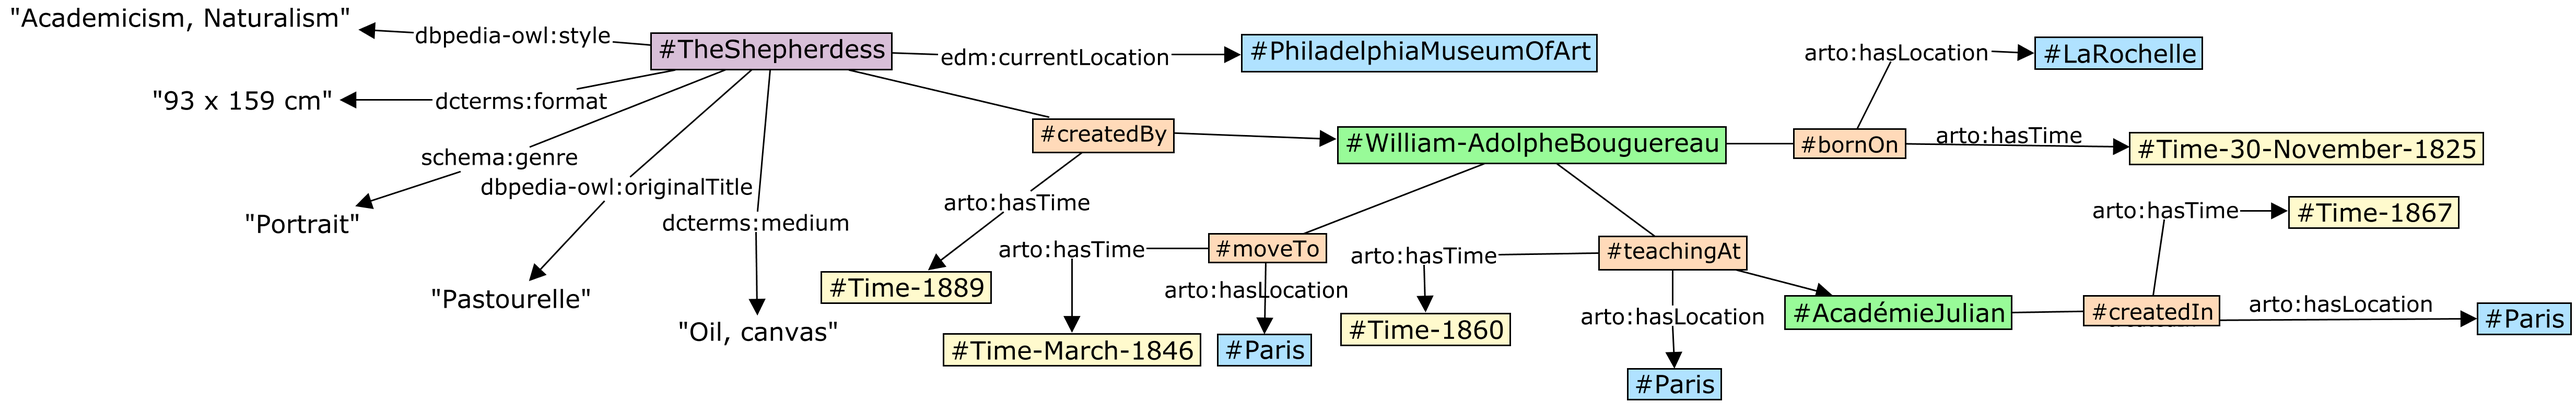
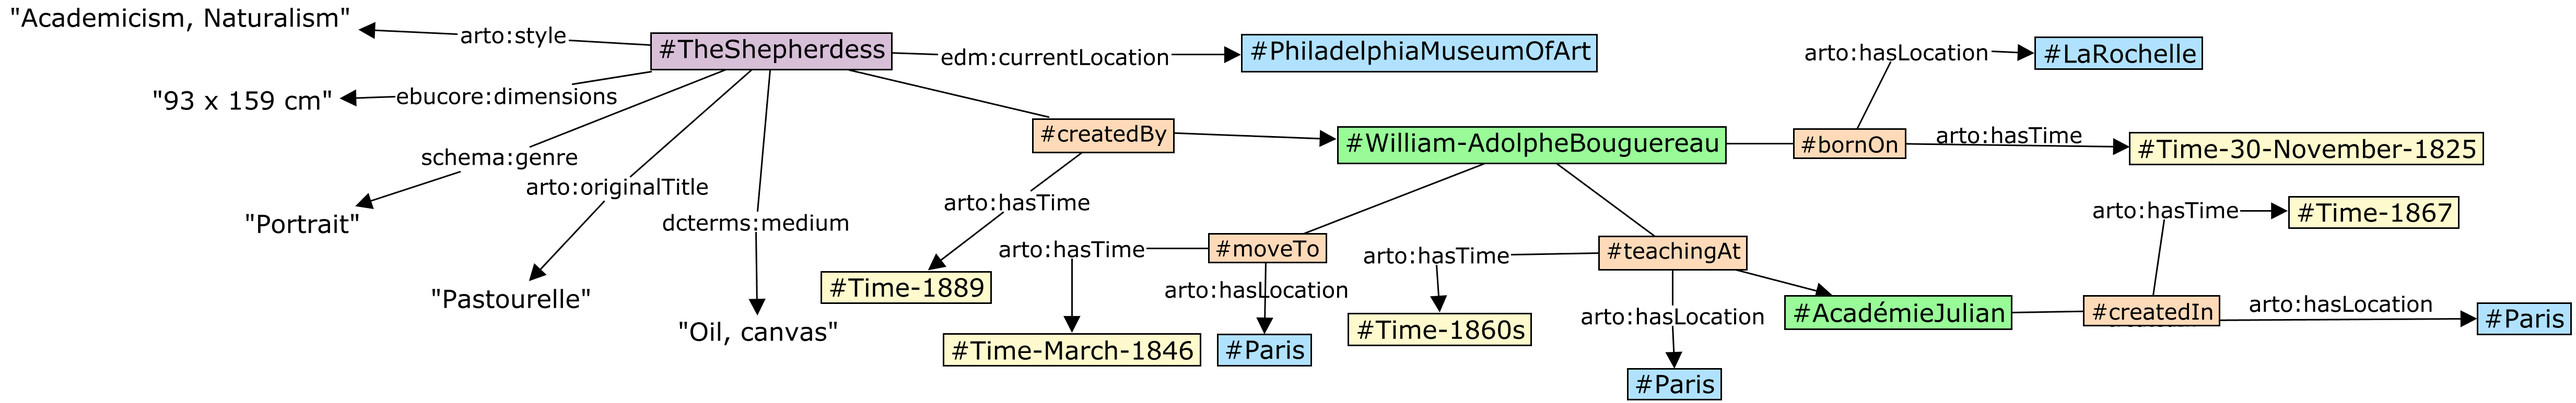
update examples

diff --git a/README.md b/README.md
@@ -44,12 +44,11 @@ To demonstrate the application of the ARTO models, consider the artwork “[The 
 ``` turtle
 # Artist information
 <#William-AdolpheBouguereau> <#bornOn> <#Time-30-November-1825> .
-<#William-AdolpheBouguereau> <arto:hasLocation> <#LaRochelle> .
-<<#William-AdolpheBouguereau> <#bornOn> <#Time-30-November-1825>> <arto:hasTime> <#Time-30-November-1825> .
+<<#William-AdolpheBouguereau> <#bornOn> <#Time-30-November-1825>> <arto:hasLocation> <#LaRochelle> .
 
 # Artist's professional history
 <#William-AdolpheBouguereau> <#teachingAt> <#AcadémieJulian> .
-<<#William-AdolpheBouguereau> <#teachingAt> <#AcadémieJulian>> <arto:hasTime> <#Time-1860> .
+<<#William-AdolpheBouguereau> <#teachingAt> <#AcadémieJulian>> <arto:hasTime> <#Time-1860s> .
 <<#William-AdolpheBouguereau> <#teachingAt> <#AcadémieJulian>> <arto:hasLocation> <#Paris> .
 
 # Artist's activities
@@ -58,8 +57,6 @@ To demonstrate the application of the ARTO models, consider the artwork “[The 
 
 # Creation place and time
 <<#TheShepherdess> <#createdBy> <#William-AdolpheBouguereau>> <arto:hasTime> <#Time-1889> .
-<<#TheShepherdess> <#createdBy> <#William-AdolpheBouguereau>> <#createdIn> <#Paris> .
-<<<#TheShepherdess> <#createdBy> <#William-AdolpheBouguereau>> <#createdIn> <#Paris>> <arto:hasLocation> <#Paris> .
 ```
 
 ### Contextual Model of The Shepherdess using RDF
